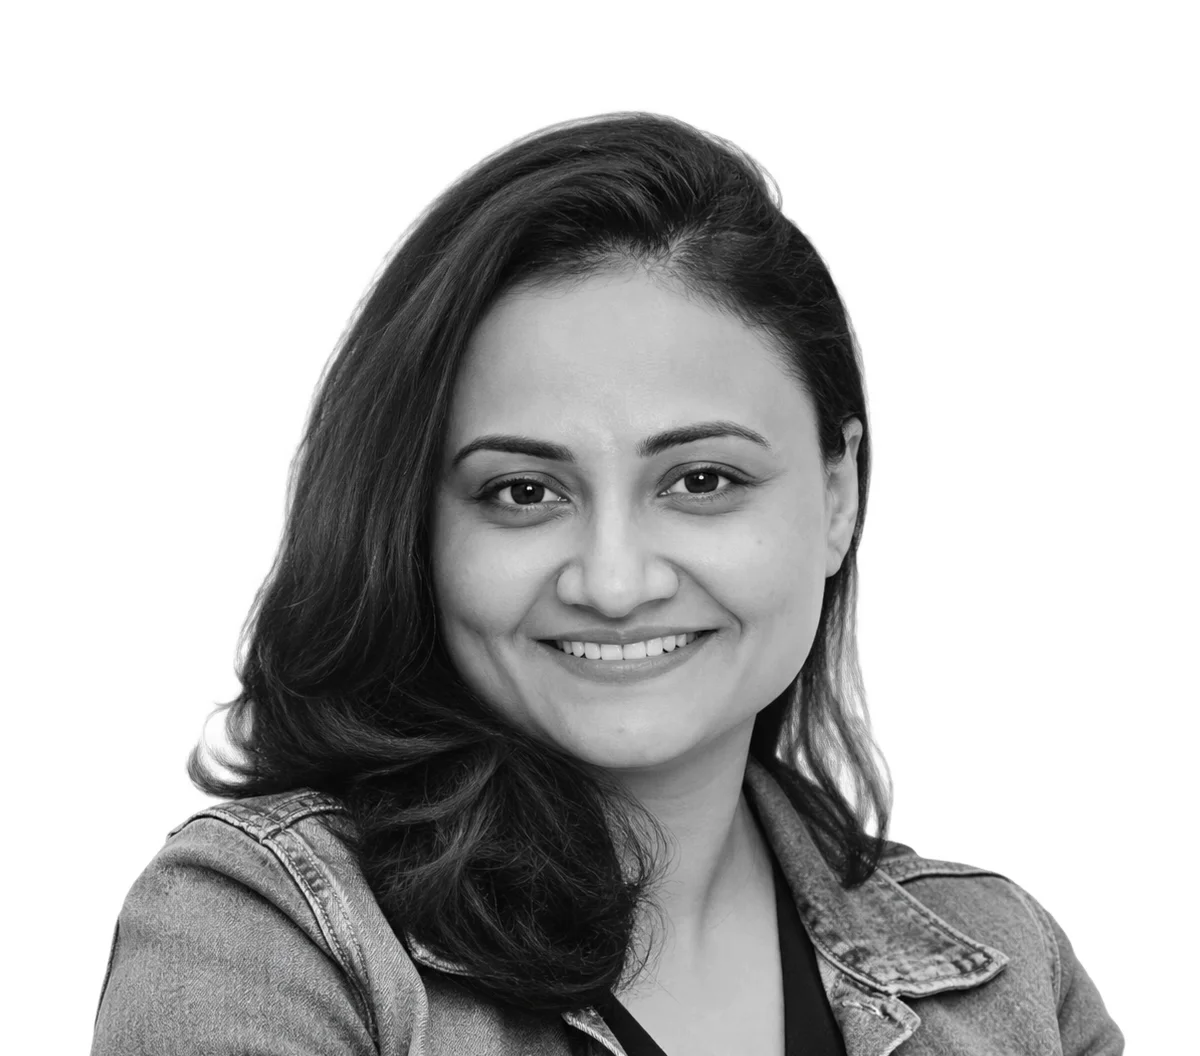
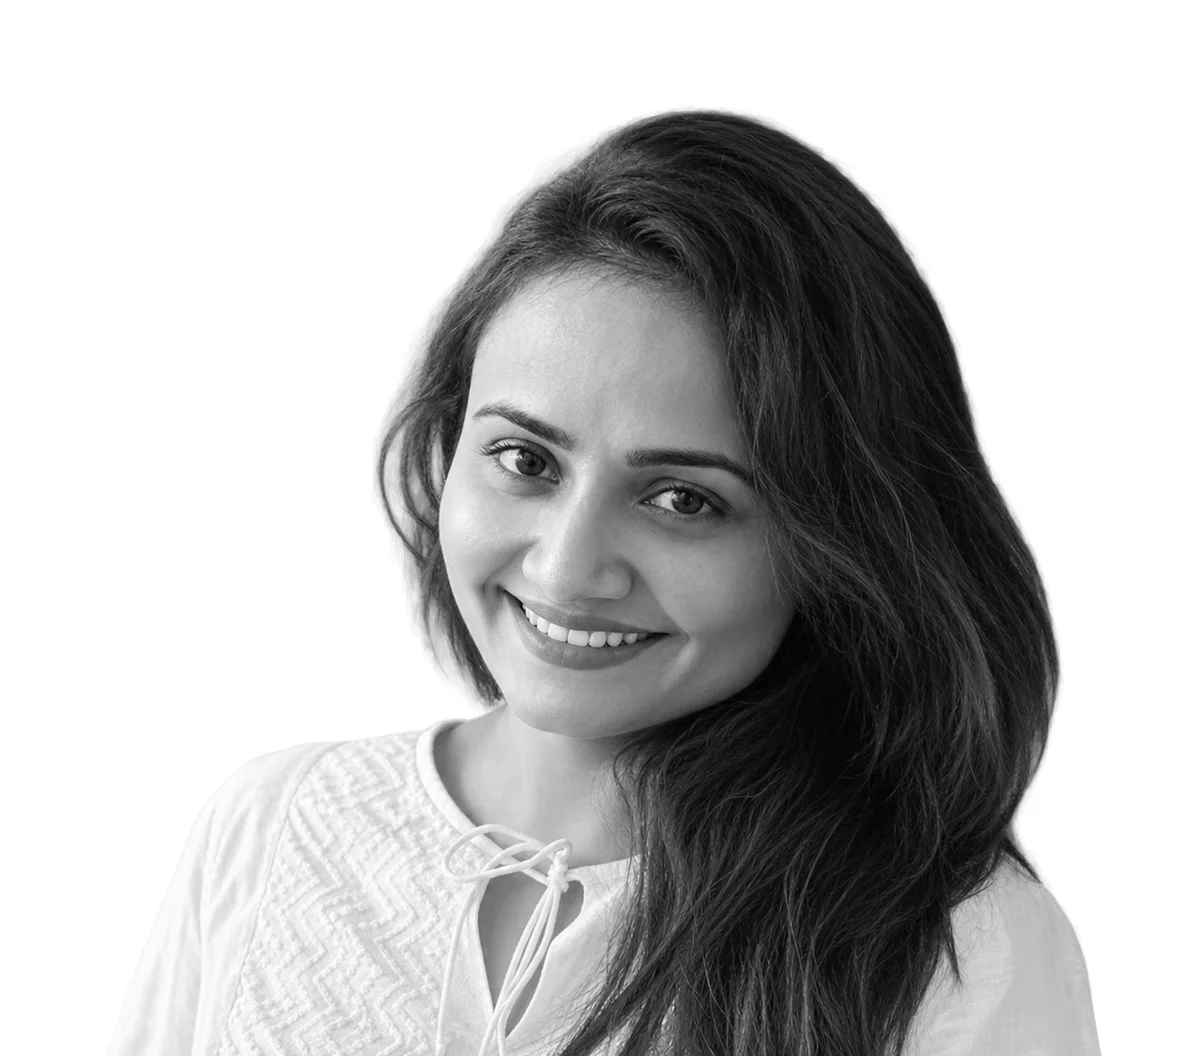
About: bios trimmed to ~45-60 words; new bio and photo for Kanika

diff --git a/CLAUDE.md b/CLAUDE.md
@@ -40,7 +40,7 @@ Agent-specific Astro tips are in [AGENTS.md](AGENTS.md).
 | `/approach` | MacBook Air - 35 (2026-11-06) | `src/pages/approach.astro` (was /wow "Our Way" until 2026-11-04) — hero "We know when to reinvent the wheel" + lead (no button), `IconGrid` (9 cells, no heading), "There are 2 ways of working with us" + one card: Playing Jazz \| Conducting a Symphony (blue Phosphor icon, bold name + promise, `.t-p` text; icons `src/icons/ways/`, Claude's pick for the frame's grey circles), then a row "We’ve made a questionnaire to get things started." + underlined "Questions we ask clients" (Kedar's Google Doc, `brief` in `site.ts`; must stay "anyone with the link can view"), then "We also have a rate card for clients who know it all" (link → /rate-card; **commented out 2026-11-15, Kedar**) | ✅ built; typos fixed 2026-11-15 at Kedar's request ("WCAG compliant", "reinvent", "Ideal for startups"…) |
 | ~~`/rate-card`~~ **hidden (Kedar, 2026-11-15)** | MacBook Air - 36 (2026-11-06) | `src/pages/_rate-card.astro` (the `_` keeps Astro from building it; rename back + uncomment the /approach line to restore) — blue page (Kedar 2026-11-06), × → /approach; letter on cream paper (`--color-letter`, two sheets peeking out behind) "Hello!" … "With love, Team Patterns Studio!" beside a white till receipt (zigzag torn edges via CSS mask, "Receipt" `.t-h2`, dashed rules, 6 rates $100 → $20,000 with dotted leaders, thin barcode, "Thank you!"; after Kedar's receipt reference); phones: receipt under the letter. The joke prices are Kedar's design, the one exception to "no budgets on the site" | ✅ built; copy verbatim |
 | `/services` | MacBook Air - 30 | `src/pages/services.astro` — "Different problems. Familiar patterns.", lead, "Explore our work", `ProblemList` (pale-blue header band, P-Bold headers, P cells; phones: one-line band "Problem → Our solution", bold solution under each problem behind an ink →, Kedar 2026-11-06), "In other words, we do" + `IconGrid` (6 cells; the frame repeats one label as a placeholder, the six services + icons stay), "Explore our work" | ✅ built |
-| `/about` | MacBook Air - 23 (reworked 2026-11-06) | `src/pages/about.astro` — "An independent design studio based in Southeast Asia" (Kedar 2026-11-15; was "from SEA", before that "based in Asia", before that "… in 🇸🇬"), lead, "Explore our services", 2 `TeamCard`s (Kedar: Co-founder & Principal Designer (was Designer until 2026-11-10), John: Co-founder & Head of Growth (was Storyteller)), "Advisors" + 3 `TeamCard`s (Andrew: Product, Raena: Growth (was Finance until 2026-11-09), Kanika Sood: Brand & Creative (added 2026-11-15; Google logo, Cadbury/Adobe/Standard Chartered wanted); Manav removed 2026-11-06), "Explore our work". One card per row, bio always visible | ✅ built; Kedar's and John's bios are Kedar's words (2026-11-15); company logos wanted (Kedar 2026-11-06), waiting on files |
+| `/about` | MacBook Air - 23 (reworked 2026-11-06) | `src/pages/about.astro` — "An independent design studio based in Southeast Asia" (Kedar 2026-11-15; was "from SEA", before that "based in Asia", before that "… in 🇸🇬"), lead, "Explore our services", 2 `TeamCard`s (Kedar: Co-founder & Principal Designer (was Designer until 2026-11-10), John: Co-founder & Head of Growth (was Storyteller)), "Advisors" + 3 `TeamCard`s (Andrew: Product, Raena: Growth (was Finance until 2026-11-09), Kanika Sood: Brand & Creative (added 2026-11-15; Google logo, Cadbury/Adobe/Standard Chartered wanted); Manav removed 2026-11-06), "Explore our work". One card per row, bio always visible | ✅ built; Kedar's and John's bios are Kedar's words (2026-11-15); bios trimmed to ~45–60 words, close to Andrew's (Kedar 2026-11-16); company logos wanted (Kedar 2026-11-06), waiting on files |
 | `/overview` "tl;dr" | MacBook Air - 40 layout (2026-11-16) | `src/pages/overview.astro` — the one-pager sent to prospects we may never have met (WhatsApp, LinkedIn intros) instead of a deck/PDF. **Footer link only ("Patterns tl;dr"), not in the nav.** Kedar 2026-11-16: "the whole website on one page", in the site's own words, direct and functional. White under the blue header, one column (`--width-post`), label `.t-p-bold` → answer, hairlines between, a small underlined link to the matching page. Sections: H1 "tl;dr" + homepage headline; Who we are; What we do (6 services → /services); How we work (project or retainer, senior + hands-on, prototypes not decks, measurable → /approach; Jazz / Symphony left to /approach, Kedar 2026-11-16: not direct); Clients (Kedar 2026-11-16: a few notable ones, not a laundry list: Singapore PropertyGuru, Sleek, Samwoh; India Jupiter, Cleartrip, BookMyShow; a name links to its case study when one exists → /work); Who you'll work with (Kedar + John, names → LinkedIn; link → /about); Let's talk (email button only) . **Copy rule (Kedar 2026-11-16):** direct, everyday words a founder or marketing head would use; no slogans, metaphors or agency jargon (no headline lead, no Jazz/Symphony, no reviews block) | ✅ built; Kedar reviewing copy |
 | `/contact` | MacBook Air - 26 | `src/pages/contact.astro` — "Hello!", "The best way to get in touch is to email us at" + hello@patternsstudio.co (`routes.email`), "We hope you value good design" | ✅ built |
 
